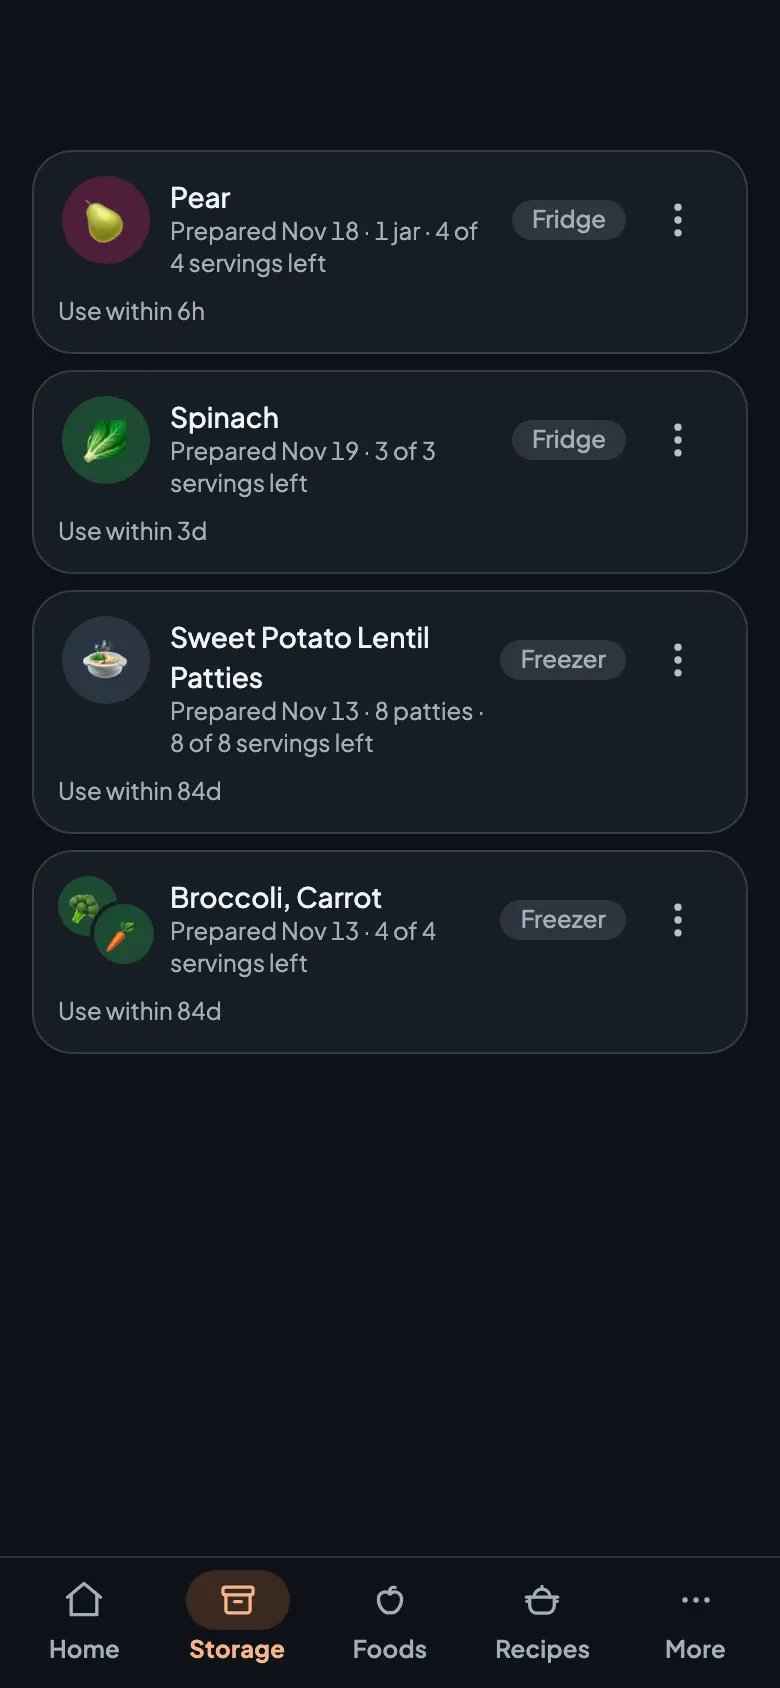
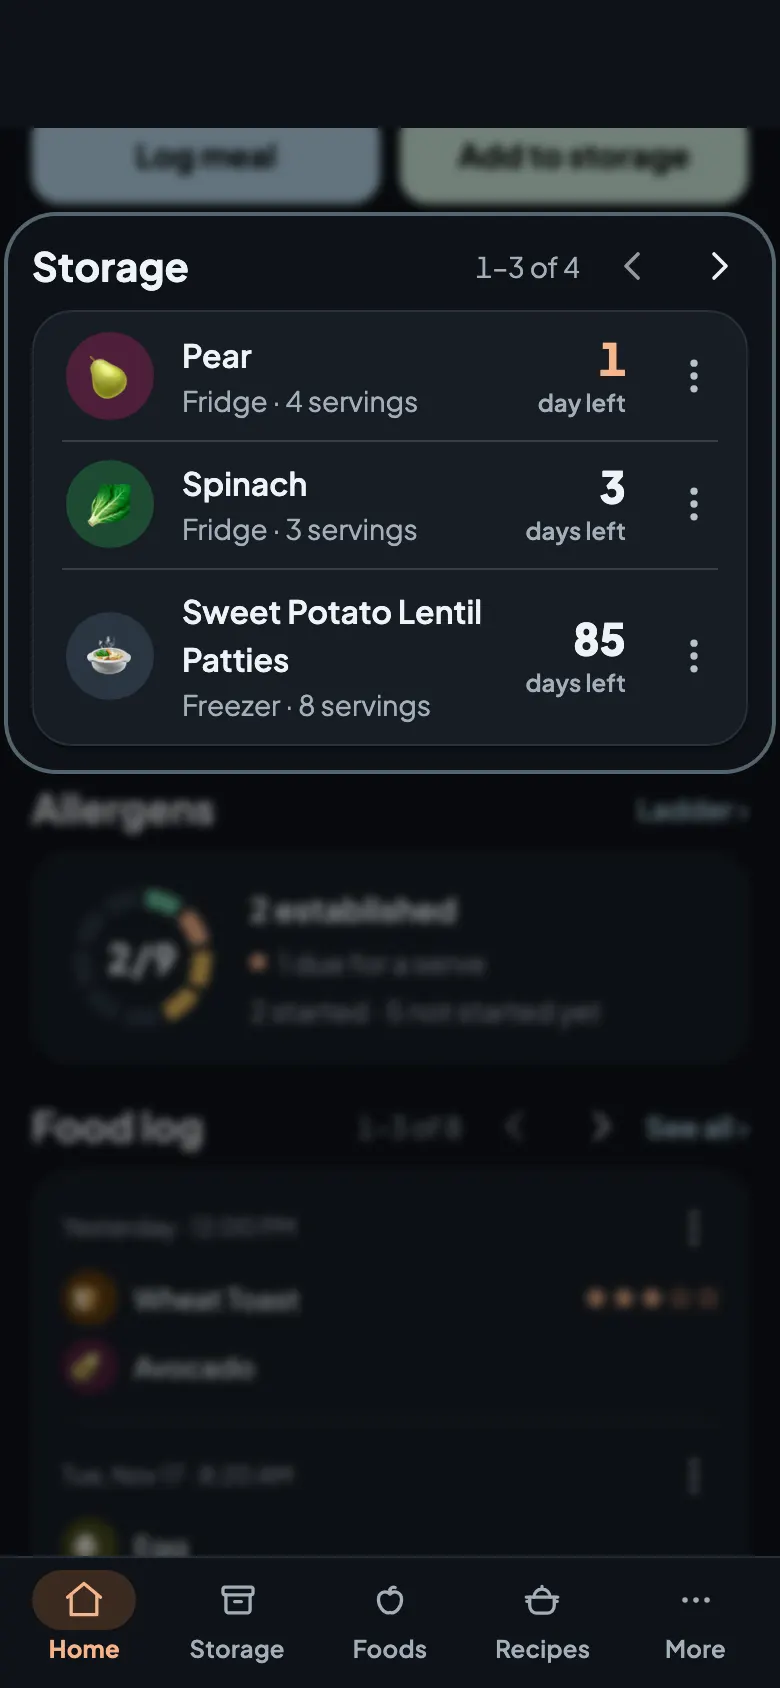
Landing: the Storage shot is Home with the Storage section spotlit (ledger 1010)
Owner: the Storage page looked odd; show Home with the storage highlighted
(pick: blur the rest). Home, app header hidden, scrolled so the Storage
section (Pear and Spinach in the Fridge, the patties in the Freezer) sits in
the upper middle (y 108-385); everything else blurred 2.5px and dimmed by a
scrim, the section sharp on the page colour with a soft accent outline.
Baked in at capture (capture-only CSS, no app code). Same headline/body;
alt updated to match.

diff --git a/client/src/features/landing/slides.ts b/client/src/features/landing/slides.ts
@@ -33,7 +33,7 @@ export const LANDING_SLIDES: readonly LandingSlide[] = [
     title: "Keep track of what you've prepped.",
     body: "Each batch shows the servings left and when to use it by.",
     shot: "storage",
-    alt: "Storage with two Fridge and two Freezer containers, each showing the servings left and how long to use it within.",
+    alt: "Home with the Storage section highlighted: Pear and Spinach in the Fridge and Sweet Potato Lentil Patties in the Freezer, each with the days left.",
   },
   {
     title: "Introduce allergens step by step.",
